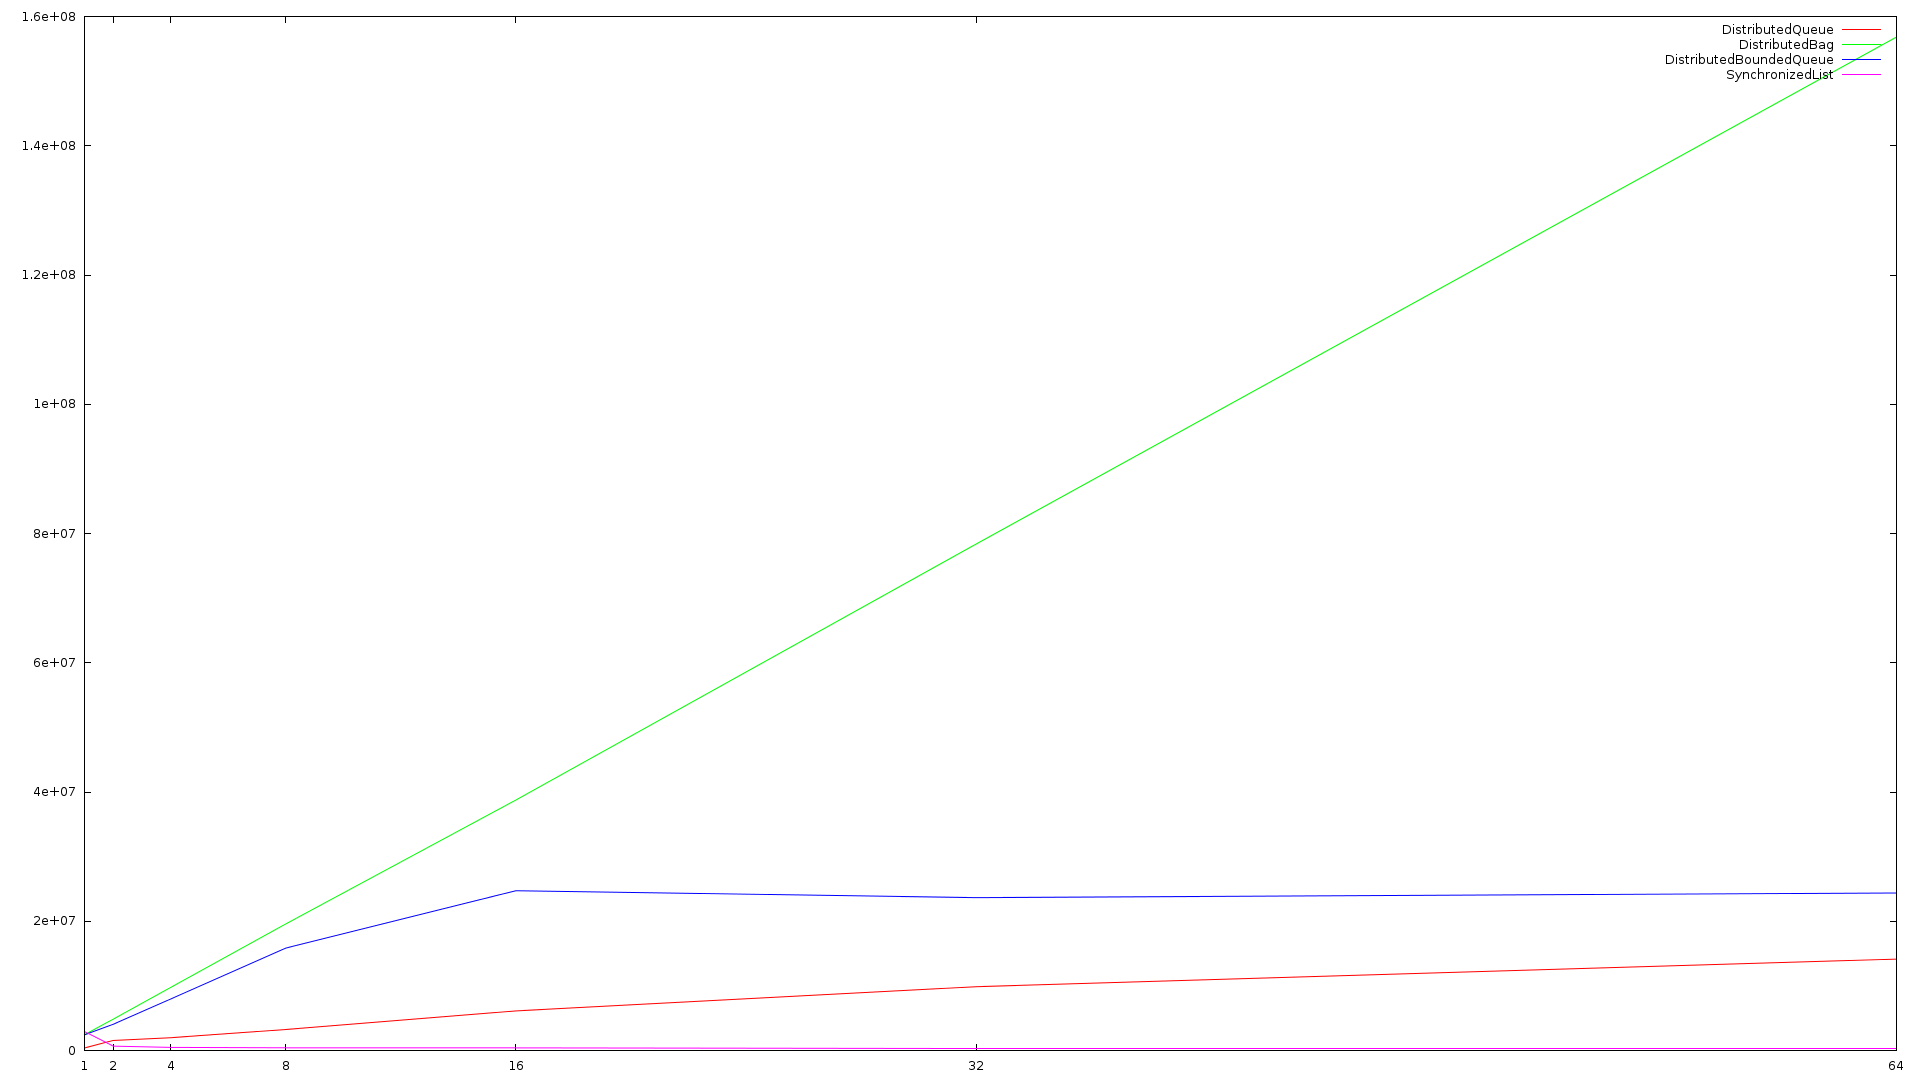
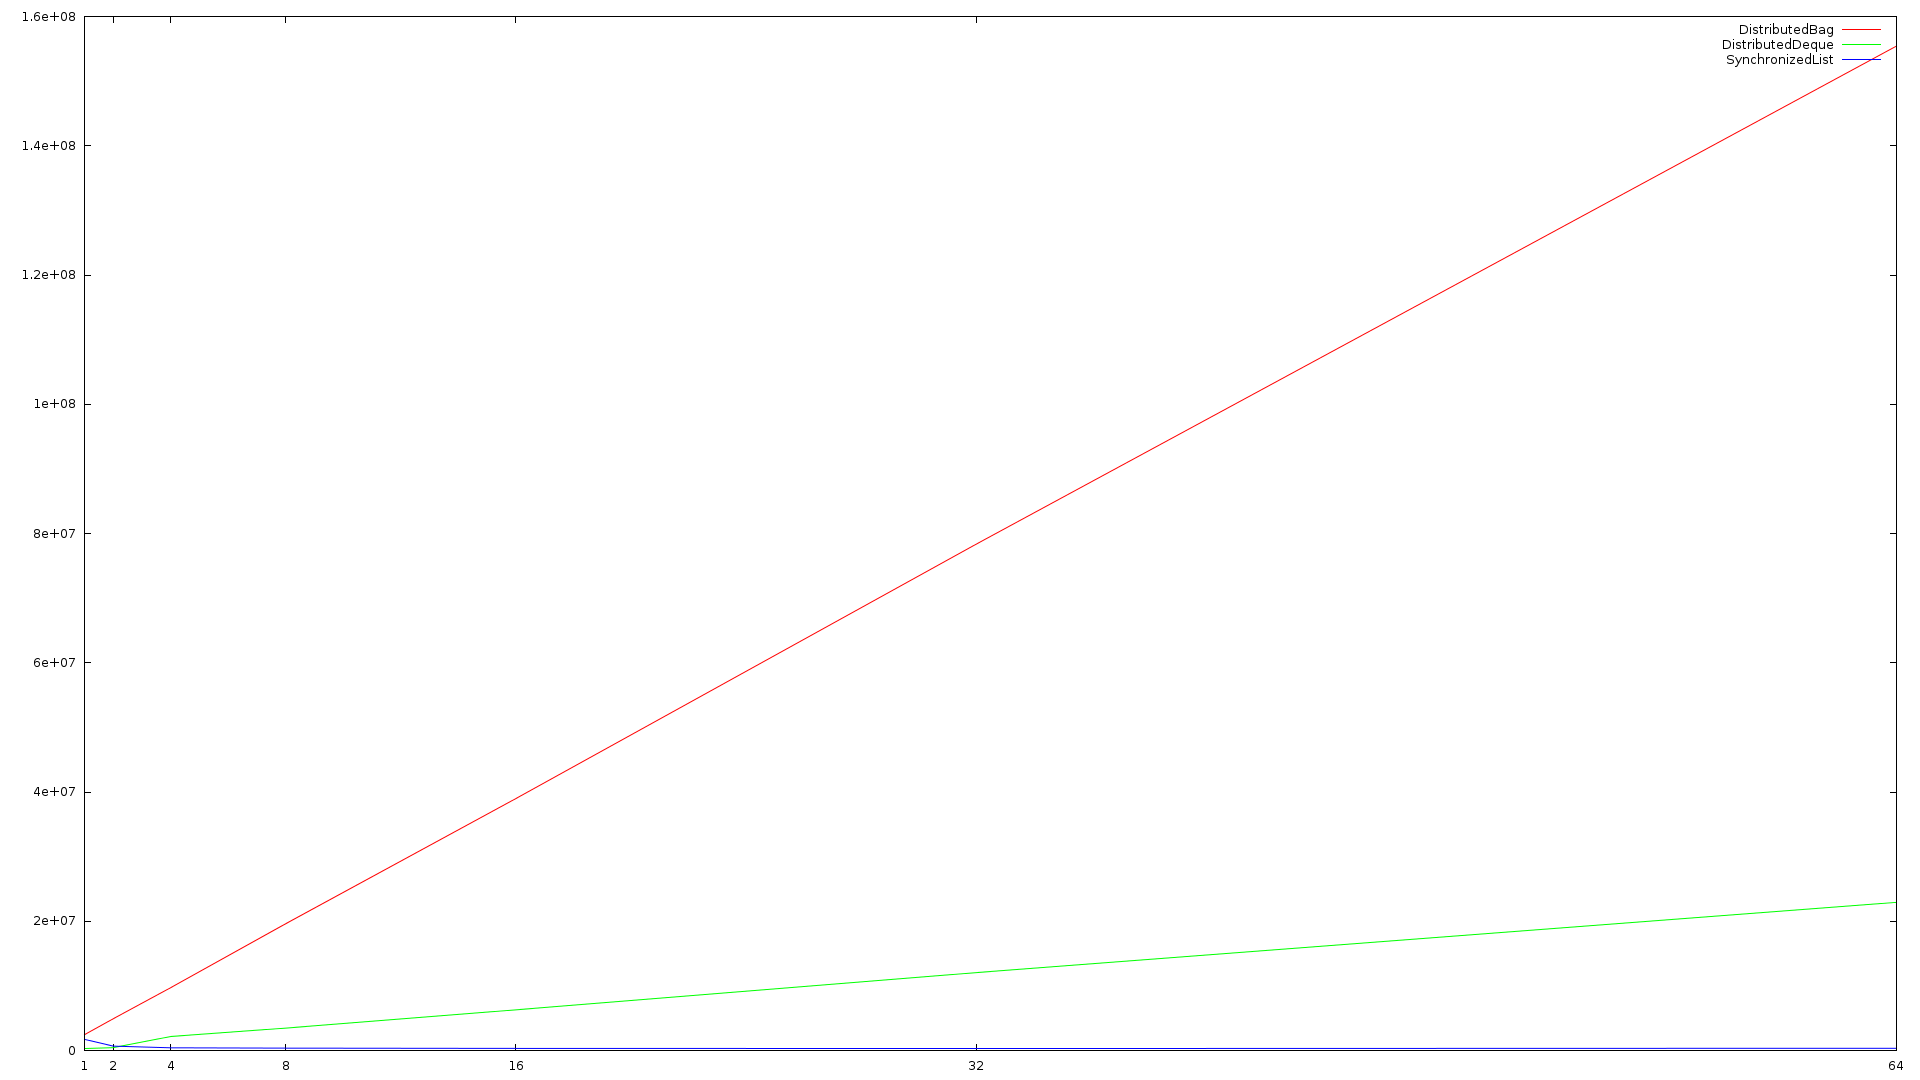
Readme is now up to date with new results. Furthermore, we made some improvements to DistributedBag to allow piggybacking the result of a load balancing to prevent thrashing when empty.

diff --git a/README.md b/README.md
@@ -34,37 +34,26 @@ sections.
 
 ### Performance
 
-TODO: Update with new results
-
 We compare our data structures to a naive synchronized list implementation
-as that is all that is available. In all cases, the data structures scale and
-outperform the naive implementation by far.
+as that is all that is available in the Chapel standard library.
+In all cases, the data structures scale and outperform the naive implementation.
 
 #### Insert
 
-Implementation | Performance over Naive
+Implementation | Performance over Naive (at 64 nodes)
 -------------- | :-----------:
-SynchronizedList | 100%
-DistributedBoundedQueue | 6233.1%
-DistributedQueue | 3638%
-DistributedBag | 40323%
+SynchronizedList | 1x
+DistributedDeque | 63x
+DistributedBag | 403x
 
 ![](Results/Collections_Add.png)
 
 #### Remove
 
-In this benchmark, we test raw removal time. In the case of DistributedBag, we have
-two variants; one which tests remove when it is already load balanced (as in we
-fill the bag ahead of time in a fairly distributed manner), given a `(Balanced)` suffix,
-and one which is not all too uncommon, where we add all elements to a single node
-causing an artificial imbalance, which tests how the bag performs in the worst case.
-
-Implementation | Performance over Naive
+Implementation | Performance over Naive (at 64 nodes)
 -------------- | :-----------:
-SynchronizedList | 100%
-DistributedBoundedQueue | 9345.4%
-DistributedQueue | 6225.1%
-DistributedBag (Imbalanced) | 18853%
-DistributedBag (Balanced) | 50330%
+SynchronizedList | 1x
+DistributedDeque | 123x
+DistributedBag | 651x
 
 ![](Results/Collections_Remove.png)
